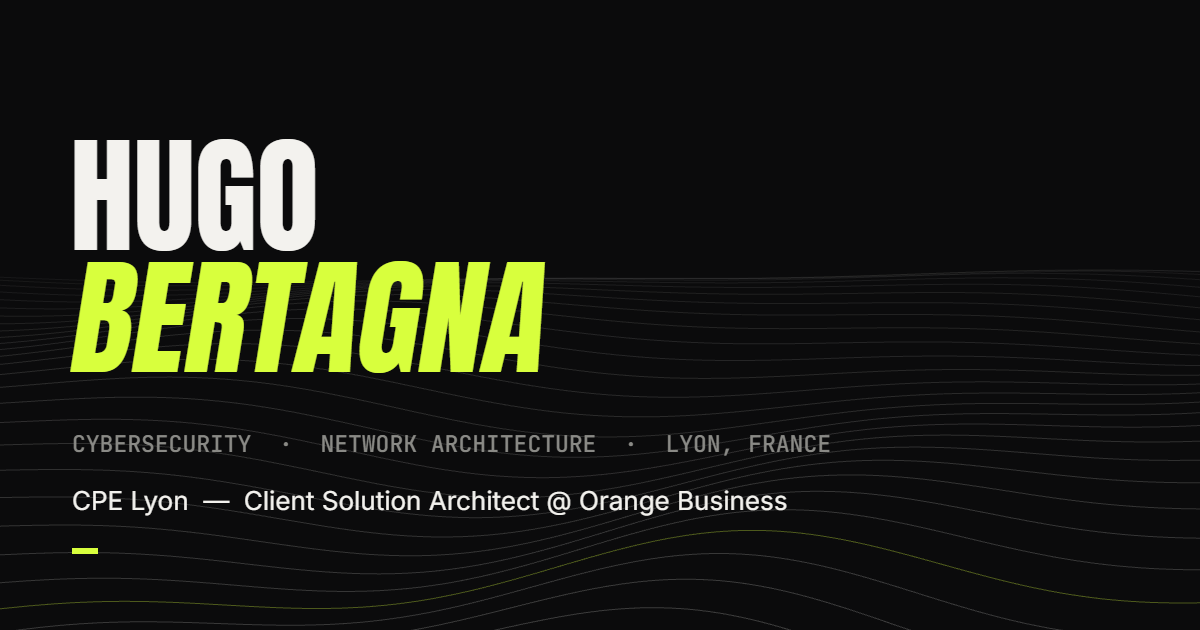
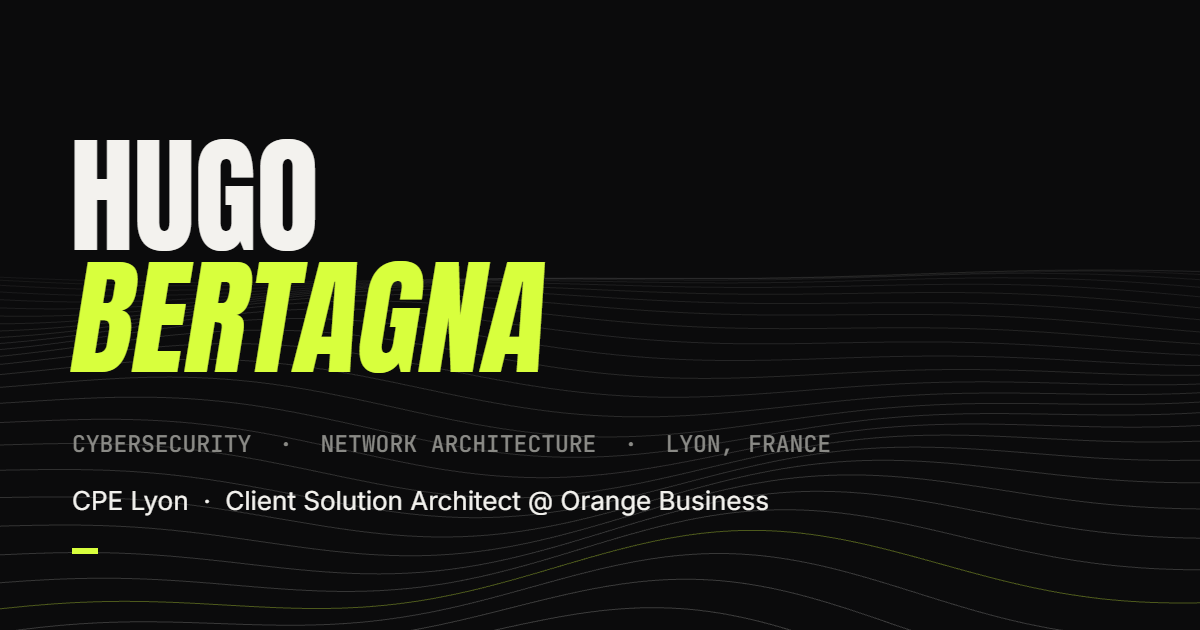
Drop em dashes and move Délest to the end of the projects
Replace every em dash in the page, the metadata, the JSON-LD and the
preview image. Date ranges use an arrow, row metadata and titles use a
middot, section markers use a slash, and the sentences that leaned on
a dash are rewritten with a colon, a comma or parentheses. En dashes in
year ranges become plain hyphens.

Délest moves from the first to the last project; the outlined index
numbers follow the new order.

Changed region(s): [[0.185, 0.754, 0.6783, 0.8143]]

diff --git a/index.html b/index.html
@@ -3,7 +3,7 @@
 <head>
 <meta charset="utf-8">
 <meta name="viewport" content="width=device-width, initial-scale=1">
-<title>Hugo Bertagna — Ingénieur Cybersécurité & Réseaux | Portfolio</title>
+<title>Hugo Bertagna · Ingénieur Cybersécurité & Réseaux | Portfolio</title>
 <meta name="description" content="Hugo Bertagna, élève ingénieur en cybersécurité et informatique à CPE Lyon et Client Solution Architect en alternance chez Orange Business. Architecture réseau BGP et SD-WAN, sécurité offensive, cloud et IA agentique. Portfolio, projets et CV.">
 <meta name="author" content="Hugo Bertagna">
 <meta name="robots" content="index,follow,max-image-preview:large">
@@ -13,7 +13,7 @@
 <meta property="og:site_name" content="Hugo Bertagna">
 <meta property="profile:first_name" content="Hugo">
 <meta property="profile:last_name" content="Bertagna">
-<meta property="og:title" content="Hugo Bertagna — Ingénieur Cybersécurité & Réseaux">
+<meta property="og:title" content="Hugo Bertagna · Ingénieur Cybersécurité & Réseaux">
 <meta property="og:description" content="Élève ingénieur cybersécurité à CPE Lyon, Client Solution Architect en alternance chez Orange Business. BGP, SD-WAN, sécurité offensive, IA agentique.">
 <meta property="og:url" content="https://www.hcorp.si/">
 <meta property="og:locale" content="fr_FR">
@@ -22,7 +22,7 @@
 <meta property="og:image:width" content="1200">
 <meta property="og:image:height" content="630">
 <meta name="twitter:card" content="summary_large_image">
-<meta name="twitter:title" content="Hugo Bertagna — Ingénieur Cybersécurité & Réseaux">
+<meta name="twitter:title" content="Hugo Bertagna · Ingénieur Cybersécurité & Réseaux">
 <meta name="twitter:description" content="Élève ingénieur cybersécurité à CPE Lyon, Client Solution Architect en alternance chez Orange Business.">
 <meta name="twitter:image" content="https://www.hcorp.si/assets/og-image.png">
 <link rel="preconnect" href="https://fonts.googleapis.com">
@@ -38,13 +38,13 @@
   "familyName": "Bertagna",
   "url": "https://www.hcorp.si/",
   "email": "mailto:h.bertagna118@gmail.com",
-  "jobTitle": "Client Solution Architect (apprentice) — Cybersecurity & Network Engineering student",
+  "jobTitle": "Client Solution Architect (apprentice), Cybersecurity & Network Engineering student",
   "description": "Cybersecurity and computer science engineering student at CPE Lyon, Client Solution Architect apprentice at Orange Business. Enterprise network architecture (BGP, SD-WAN), offensive security, cloud governance and agentic AI.",
   "knowsAbout": ["Cybersecurity","Network architecture","BGP","SD-WAN","Penetration testing","Cloud governance","Agentic AI","Python","Linux"],
   "knowsLanguage": ["fr","en","de"],
   "address": { "@type": "PostalAddress", "addressLocality": "Lyon", "addressCountry": "FR" },
   "alumniOf": [
-    { "@type": "CollegeOrUniversity", "name": "CPE Lyon — Graduate School of Engineering", "url": "https://www.cpe.fr/" },
+    { "@type": "CollegeOrUniversity", "name": "CPE Lyon, Graduate School of Engineering", "url": "https://www.cpe.fr/" },
     { "@type": "EducationalOrganization", "name": "ORT Lyon", "url": "https://www.ort-lyon.fr/" }
   ],
   "worksFor": { "@type": "Organization", "name": "Orange Business", "url": "https://www.orange-business.com/" },
@@ -58,7 +58,7 @@
 {
   "@context": "https://schema.org",
   "@type": "WebSite",
-  "name": "Hugo Bertagna — Portfolio",
+  "name": "Hugo Bertagna, Portfolio",
   "url": "https://www.hcorp.si/",
   "inLanguage": "fr-FR",
   "author": { "@type": "Person", "name": "Hugo Bertagna" }
@@ -352,7 +352,7 @@ footer{border-top:1px solid var(--line);padding:20px var(--pad)}
 
 <div id="intro" aria-hidden="true">
   <div class="count" id="count">00</div>
-  <div class="who micro"><span class="on">HUGO BERTAGNA</span><br>PORTFOLIO — 2026</div>
+  <div class="who micro"><span class="on">HUGO BERTAGNA</span><br>PORTFOLIO 2026</div>
 </div>
 
 <div class="tr">
@@ -388,9 +388,9 @@ footer{border-top:1px solid var(--line);padding:20px var(--pad)}
       <span class="n2">Bertagna</span>
     </h1>
     <div class="sticker" data-fr="Lyon<br>45.76° N" data-en="Lyon<br>45.76° N">Lyon<br>45.76° N</div>
-    <p class="claim" data-fr="Élève ingénieur en <b>cybersécurité &amp; informatique</b> à CPE Lyon. Client Solution Architect en alternance chez Orange Business — BGP, SD-WAN, sécurité offensive, IA agentique."
-                     data-en="Cybersecurity &amp; computer science <b>engineering student</b> at CPE Lyon. Client Solution Architect apprentice at Orange Business — BGP, SD-WAN, offensive security, agentic AI.">
-      Élève ingénieur en <b>cybersécurité &amp; informatique</b> à CPE Lyon. Client Solution Architect en alternance chez Orange Business — BGP, SD-WAN, sécurité offensive, IA agentique.
+    <p class="claim" data-fr="Élève ingénieur en <b>cybersécurité &amp; informatique</b> à CPE Lyon. Client Solution Architect en alternance chez Orange Business : BGP, SD-WAN, sécurité offensive, IA agentique."
+                     data-en="Cybersecurity &amp; computer science <b>engineering student</b> at CPE Lyon. Client Solution Architect apprentice at Orange Business: BGP, SD-WAN, offensive security, agentic AI.">
+      Élève ingénieur en <b>cybersécurité &amp; informatique</b> à CPE Lyon. Client Solution Architect en alternance chez Orange Business : BGP, SD-WAN, sécurité offensive, IA agentique.
     </p>
     <span class="edge micro" data-fr="DÉFILER ↓" data-en="SCROLL ↓">DÉFILER ↓</span>
   </section>
@@ -409,28 +409,14 @@ footer{border-top:1px solid var(--line);padding:20px var(--pad)}
 
   <!-- ══ WORK ══ -->
   <section class="pad" id="work">
-    <span class="mark"><b>01</b> — <span data-fr="TRAVAUX &amp; DISTINCTIONS" data-en="WORK &amp; AWARDS">TRAVAUX &amp; DISTINCTIONS</span></span>
+    <span class="mark"><b>01</b> / <span data-fr="TRAVAUX &amp; DISTINCTIONS" data-en="WORK &amp; AWARDS">TRAVAUX &amp; DISTINCTIONS</span></span>
     <div class="inner">
       <div class="rows">
 
         <article class="row rv">
           <span class="ghost" aria-hidden="true">01</span>
-          <h3><img class="logo" src="assets/delest-logo.svg" alt="" width="24" height="24" loading="lazy">Délest</h3>
-          <span class="meta" data-fr="APPLI WINDOWS — BÊTA 0.1.0" data-en="WINDOWS APP — BETA 0.1.0">APPLI WINDOWS — BÊTA 0.1.0</span>
-          <div class="body">
-            <p data-fr="Application de bureau que j’ai conçue et développée pour Windows 10/11 : elle scanne tout le disque et montre enfin où part l’espace. Les 233 Go analysés sont triés par raison — gros fichiers, dépendances de dev, caches et temporaires, installateurs, doublons — avec une carte visuelle des dossiers, un détecteur de doublons et un marquage « sans risque ». Rien n’est supprimé sans confirmation explicite, et tout tourne hors ligne, sans compte."
-               data-en="Desktop app I designed and built for Windows 10/11: it scans the whole drive and finally shows where the space went. Everything it finds is sorted by reason — large files, dev dependencies, caches and temp data, installers, duplicates — with a visual folder map, a duplicate finder and a “safe to delete” marker. Nothing is removed without explicit confirmation, and it all runs offline, no account.">
-              Application de bureau que j’ai conçue et développée pour Windows 10/11 : elle scanne tout le disque et montre enfin où part l’espace. Les 233 Go analysés sont triés par raison — gros fichiers, dépendances de dev, caches et temporaires, installateurs, doublons — avec une carte visuelle des dossiers, un détecteur de doublons et un marquage « sans risque ». Rien n’est supprimé sans confirmation explicite, et tout tourne hors ligne, sans compte.
-            </p>
-            <div class="tags"><span class="tag">Windows</span><span class="tag" data-fr="Appli bureau" data-en="Desktop app">Appli bureau</span><span class="tag" data-fr="Analyse disque" data-en="Disk analysis">Analyse disque</span><span class="tag" data-fr="Produit &amp; UX" data-en="Product &amp; UX">Produit &amp; UX</span></div>
-            <a class="out" href="https://delest-one.vercel.app/" target="_blank" rel="noopener">delest-one.vercel.app ↗</a>
-          </div>
-        </article>
-
-        <article class="row rv">
-          <span class="ghost" aria-hidden="true">02</span>
           <h3>IAThon IBM × EDF</h3>
-          <span class="meta" data-fr="1RE PLACE — MARS 2026" data-en="1ST PLACE — MARCH 2026">1RE PLACE — MARS 2026</span>
+          <span class="meta" data-fr="1RE PLACE · MARS 2026" data-en="1ST PLACE · MARCH 2026">1RE PLACE · MARS 2026</span>
           <div class="body">
             <p data-fr="Agents IA autonomes conçus et déployés pour résoudre des cas métier d’EDF. Outils Python sur mesure permettant aux agents d’interagir avec des systèmes externes, développés sur l’IDE BOB d’IBM en accès anticipé."
                data-en="Autonomous AI agents designed and deployed to solve EDF business challenges. Custom Python tooling letting agents interact with external systems, built on IBM’s BOB IDE in early access.">
@@ -441,9 +427,9 @@ footer{border-top:1px solid var(--line);padding:20px var(--pad)}
         </article>
 
         <article class="row rv">
-          <span class="ghost" aria-hidden="true">03</span>
+          <span class="ghost" aria-hidden="true">02</span>
           <h3>WocsHack 2026</h3>
-          <span class="meta" data-fr="3E PLACE — BUG BOUNTY" data-en="3RD PLACE — BUG BOUNTY">3E PLACE — BUG BOUNTY</span>
+          <span class="meta" data-fr="3E PLACE · BUG BOUNTY" data-en="3RD PLACE · BUG BOUNTY">3E PLACE · BUG BOUNTY</span>
           <div class="body">
             <p data-fr="Avec deux camarades de CPE Lyon : audit et pentest d’une plateforme d’apprentissage en ligne, dans un cadre éthique et pédagogique."
                data-en="With two CPE Lyon classmates: audit and pentest of an online learning platform, in an ethical and educational setting.">
@@ -454,9 +440,9 @@ footer{border-top:1px solid var(--line);padding:20px var(--pad)}
         </article>
 
         <article class="row rv">
-          <span class="ghost" aria-hidden="true">04</span>
+          <span class="ghost" aria-hidden="true">03</span>
           <h3>Roverba</h3>
-          <span class="meta" data-fr="CHEF DE PROJET — 5 DEVS" data-en="PROJECT LEAD — 5 DEVS">CHEF DE PROJET — 5 DEVS</span>
+          <span class="meta" data-fr="CHEF DE PROJET · 5 DEVS" data-en="PROJECT LEAD · 5 DEVS">CHEF DE PROJET · 5 DEVS</span>
           <div class="body">
             <p data-fr="Plateforme web qui automatise le déploiement de machines virtuelles. Back-end PHP configurant les accès SSH et RDP, authentification sécurisée et environnements conteneurisés : −95 % de risque inter-VM, −70 % de temps de déploiement manuel."
                data-en="Web platform automating virtual machine deployment. PHP back-end configuring SSH and RDP access, secure authentication and containerized environments: −95% inter-VM risk, −70% manual deployment time.">
@@ -468,18 +454,32 @@ footer{border-top:1px solid var(--line);padding:20px var(--pad)}
 
       </div>
     </div>
-  </section>
+          <article class="row rv">
+          <span class="ghost" aria-hidden="true">04</span>
+          <h3><img class="logo" src="assets/delest-logo.svg" alt="" width="24" height="24" loading="lazy">Délest</h3>
+          <span class="meta" data-fr="APPLI WINDOWS · BÊTA 0.1.0" data-en="WINDOWS APP · BETA 0.1.0">APPLI WINDOWS · BÊTA 0.1.0</span>
+          <div class="body">
+            <p data-fr="Application de bureau que j’ai conçue et développée pour Windows 10/11 : elle scanne tout le disque et montre enfin où part l’espace. Les 233 Go analysés sont triés par raison (gros fichiers, dépendances de dev, caches et temporaires, installateurs, doublons), avec une carte visuelle des dossiers, un détecteur de doublons et un marquage « sans risque ». Rien n’est supprimé sans confirmation explicite, et tout tourne hors ligne, sans compte."
+               data-en="Desktop app I designed and built for Windows 10/11: it scans the whole drive and finally shows where the space went. Everything it finds is sorted by reason (large files, dev dependencies, caches and temp data, installers, duplicates), with a visual folder map, a duplicate finder and a “safe to delete” marker. Nothing is removed without explicit confirmation, and it all runs offline, no account.">
+              Application de bureau que j’ai conçue et développée pour Windows 10/11 : elle scanne tout le disque et montre enfin où part l’espace. Les 233 Go analysés sont triés par raison (gros fichiers, dépendances de dev, caches et temporaires, installateurs, doublons), avec une carte visuelle des dossiers, un détecteur de doublons et un marquage « sans risque ». Rien n’est supprimé sans confirmation explicite, et tout tourne hors ligne, sans compte.
+            </p>
+            <div class="tags"><span class="tag">Windows</span><span class="tag" data-fr="Appli bureau" data-en="Desktop app">Appli bureau</span><span class="tag" data-fr="Analyse disque" data-en="Disk analysis">Analyse disque</span><span class="tag" data-fr="Produit &amp; UX" data-en="Product &amp; UX">Produit &amp; UX</span></div>
+            <a class="out" href="https://delest-one.vercel.app/" target="_blank" rel="noopener">delest-one.vercel.app ↗</a>
+          </div>
+        </article>
+
+</section>
 
   <!-- ══ PARCOURS ══ -->
   <section class="pad" id="experience">
-    <span class="mark"><b>02</b> — <span data-fr="PARCOURS" data-en="TRACK RECORD">PARCOURS</span></span>
+    <span class="mark"><b>02</b> / <span data-fr="PARCOURS" data-en="TRACK RECORD">PARCOURS</span></span>
     <div class="inner">
       <div class="rows">
 
         <article class="row rv">
           <span class="ghost" aria-hidden="true">26</span>
           <h3>Orange Business</h3>
-          <span class="meta" data-fr="SEPT 2026 — AOÛT 2028" data-en="SEPT 2026 — AUG 2028">SEPT 2026 — AOÛT 2028</span>
+          <span class="meta" data-fr="SEPT 2026 → AOÛT 2028" data-en="SEPT 2026 → AUG 2028">SEPT 2026 → AOÛT 2028</span>
           <div class="body">
             <p data-fr="<strong>Client Solution Architect, alternance.</strong> Conception de solutions de routage BGP pour les réseaux de grands comptes, architecture et déploiement SD-WAN de l’analyse du besoin à la proposition technique, gestion du lab de démonstration client."
                data-en="<strong>Client Solution Architect, work-study.</strong> BGP routing solutions for large enterprise networks, SD-WAN architecture and deployment from needs analysis to technical proposal, ownership of the client demo lab.">
@@ -491,11 +491,11 @@ footer{border-top:1px solid var(--line);padding:20px var(--pad)}
         <article class="row rv">
           <span class="ghost" aria-hidden="true">26</span>
           <h3>Universidad Nacional del Sur</h3>
-          <span class="meta" data-fr="JUIN — AOÛT 2026 · ARGENTINE" data-en="JUNE — AUG 2026 · ARGENTINA">JUIN — AOÛT 2026 · ARGENTINE</span>
+          <span class="meta" data-fr="JUIN → AOÛT 2026 · ARGENTINE" data-en="JUNE → AUG 2026 · ARGENTINA">JUIN → AOÛT 2026 · ARGENTINE</span>
           <div class="body">
-            <p data-fr="<strong>Stage de recherche — architecture cloud &amp; cybersécurité.</strong> Framework de politique de sécurité pour le cloud hybride en contexte gouvernemental, référentiels de conformité pour l’isolation des infrastructures critiques, analyse des vecteurs d’attaque et architectures de confiance pour l’intégration de LLM dans l’administration publique."
-               data-en="<strong>Research internship — cloud architecture &amp; cybersecurity.</strong> Security policy framework for hybrid cloud in government settings, compliance frameworks isolating critical state infrastructure, attack-vector analysis and trust architectures for integrating LLMs into public administration.">
-              <strong>Stage de recherche — architecture cloud &amp; cybersécurité.</strong> Framework de politique de sécurité pour le cloud hybride en contexte gouvernemental, référentiels de conformité pour l’isolation des infrastructures critiques, analyse des vecteurs d’attaque et architectures de confiance pour l’intégration de LLM dans l’administration publique.
+            <p data-fr="<strong>Stage de recherche en architecture cloud &amp; cybersécurité.</strong> Framework de politique de sécurité pour le cloud hybride en contexte gouvernemental, référentiels de conformité pour l’isolation des infrastructures critiques, analyse des vecteurs d’attaque et architectures de confiance pour l’intégration de LLM dans l’administration publique."
+               data-en="<strong>Research internship in cloud architecture &amp; cybersecurity.</strong> Security policy framework for hybrid cloud in government settings, compliance frameworks isolating critical state infrastructure, attack-vector analysis and trust architectures for integrating LLMs into public administration.">
+              <strong>Stage de recherche en architecture cloud &amp; cybersécurité.</strong> Framework de politique de sécurité pour le cloud hybride en contexte gouvernemental, référentiels de conformité pour l’isolation des infrastructures critiques, analyse des vecteurs d’attaque et architectures de confiance pour l’intégration de LLM dans l’administration publique.
             </p>
           </div>
         </article>
@@ -503,7 +503,7 @@ footer{border-top:1px solid var(--line);padding:20px var(--pad)}
         <article class="row rv">
           <span class="ghost" aria-hidden="true">24</span>
           <h3>Hospices Civils de Lyon</h3>
-          <span class="meta" data-fr="JUIN — AOÛT 2024 · LYON" data-en="JUNE — AUG 2024 · LYON">JUIN — AOÛT 2024 · LYON</span>
+          <span class="meta" data-fr="JUIN → AOÛT 2024 · LYON" data-en="JUNE → AUG 2024 · LYON">JUIN → AOÛT 2024 · LYON</span>
           <div class="body">
             <p data-fr="<strong>Stage support N2/N3.</strong> Conception et test de fonctionnalités sur une application web React, correction de bugs front-end, optimisation du responsive, versioning sur dépôt distant en environnement Agile/Scrum."
                data-en="<strong>N2/N3 support internship.</strong> Designed and tested features on a React web application, fixed front-end bugs, optimized responsiveness, remote-repo versioning in an Agile/Scrum environment.">
@@ -518,16 +518,16 @@ footer{border-top:1px solid var(--line);padding:20px var(--pad)}
 
   <!-- ══ PROFIL ══ -->
   <section class="pad" id="about">
-    <span class="mark"><b>03</b> — <span data-fr="PROFIL" data-en="PROFILE">PROFIL</span></span>
+    <span class="mark"><b>03</b> / <span data-fr="PROFIL" data-en="PROFILE">PROFIL</span></span>
     <div class="inner collage rv">
       <h2 class="statement" data-fr="Je construis des réseaux, <em>je les casse</em>, puis je les blinde."
                             data-en="I build networks, <em>break them</em>, then harden them.">
         Je construis des réseaux, <em>je les casse</em>, puis je les blinde.
       </h2>
       <div class="prose">
-        <p data-fr="Cycle ingénieur cybersécurité &amp; informatique à <strong>CPE Lyon</strong> (titre CTI), en alternance chez <strong>Orange Business</strong> comme Client Solution Architect. Mon terrain : le réseau d’entreprise — BGP, SD-WAN, architecture — et tout ce qui le protège."
-           data-en="Engineering degree in cybersecurity &amp; computer science at <strong>CPE Lyon</strong> (CTI-accredited), apprenticing at <strong>Orange Business</strong> as a Client Solution Architect. My ground: enterprise networking — BGP, SD-WAN, architecture — and everything that protects it.">
-          Cycle ingénieur cybersécurité &amp; informatique à <strong>CPE Lyon</strong> (titre CTI), en alternance chez <strong>Orange Business</strong> comme Client Solution Architect. Mon terrain : le réseau d’entreprise — BGP, SD-WAN, architecture — et tout ce qui le protège.
+        <p data-fr="Cycle ingénieur cybersécurité &amp; informatique à <strong>CPE Lyon</strong> (titre CTI), en alternance chez <strong>Orange Business</strong> comme Client Solution Architect. Mon terrain : le réseau d’entreprise (BGP, SD-WAN, architecture) et tout ce qui le protège."
+           data-en="Engineering degree in cybersecurity &amp; computer science at <strong>CPE Lyon</strong> (CTI-accredited), apprenticing at <strong>Orange Business</strong> as a Client Solution Architect. My ground: enterprise networking (BGP, SD-WAN, architecture) and everything that protects it.">
+          Cycle ingénieur cybersécurité &amp; informatique à <strong>CPE Lyon</strong> (titre CTI), en alternance chez <strong>Orange Business</strong> comme Client Solution Architect. Mon terrain : le réseau d’entreprise (BGP, SD-WAN, architecture) et tout ce qui le protège.
         </p>
         <p data-fr="Avant ça : un <strong>Advanced Technician’s Certificate</strong> en réseaux, cybersécurité et électronique à l’ORT Lyon, un stage de recherche en Argentine sur la gouvernance cloud et la sécurité des LLM, et du support N2/N3 aux Hospices Civils de Lyon."
            data-en="Before that: an <strong>Advanced Technician’s Certificate</strong> in networks, cybersecurity and electronics at ORT Lyon, a research internship in Argentina on cloud governance and LLM security, and N2/N3 support at Hospices Civils de Lyon.">
@@ -542,11 +542,11 @@ footer{border-top:1px solid var(--line);padding:20px var(--pad)}
       <div class="facts">
         <div class="fact">
           <span class="k">EDU</span><b>CPE Lyon</b>
-          <span class="v" data-fr="Diplôme d’ingénieur — Cybersécurité &amp; Informatique (CTI) · 2025–2028" data-en="Engineering Degree — Cybersecurity &amp; Computer Science (CTI) · 2025–2028">Diplôme d’ingénieur — Cybersécurité &amp; Informatique (CTI) · 2025–2028</span>
+          <span class="v" data-fr="Diplôme d’ingénieur en Cybersécurité &amp; Informatique (CTI) · 2025-2028" data-en="Engineering Degree in Cybersecurity &amp; Computer Science (CTI) · 2025-2028">Diplôme d’ingénieur en Cybersécurité &amp; Informatique (CTI) · 2025-2028</span>
         </div>
         <div class="fact">
           <span class="k">EDU</span><b>ORT Lyon</b>
-          <span class="v" data-fr="Advanced Technician’s Certificate — Réseaux, Cybersécurité, Électronique · 2023–2025" data-en="Advanced Technician’s Certificate — Networks, Cybersecurity, Electronics · 2023–2025">Advanced Technician’s Certificate — Réseaux, Cybersécurité, Électronique · 2023–2025</span>
+          <span class="v" data-fr="Advanced Technician’s Certificate en Réseaux, Cybersécurité, Électronique · 2023-2025" data-en="Advanced Technician’s Certificate in Networks, Cybersecurity, Electronics · 2023-2025">Advanced Technician’s Certificate en Réseaux, Cybersécurité, Électronique · 2023-2025</span>
         </div>
         <div class="fact">
           <span class="k">CERT</span><b>Red Hat · Cisco</b>
@@ -562,7 +562,7 @@ footer{border-top:1px solid var(--line);padding:20px var(--pad)}
 
   <!-- ══ STACK ══ -->
   <section class="pad" id="skills">
-    <span class="mark"><b>04</b> — <span data-fr="STACK" data-en="STACK">STACK</span></span>
+    <span class="mark"><b>04</b> / <span data-fr="STACK" data-en="STACK">STACK</span></span>
     <div class="inner scatter rv">
       <div class="pile">
         <h4 data-fr="Réseaux" data-en="Networks">Réseaux</h4>
@@ -585,7 +585,7 @@ footer{border-top:1px solid var(--line);padding:20px var(--pad)}
 
   <!-- ══ CONTACT ══ -->
   <section class="pad contact" id="contact">
-    <span class="mark"><b>05</b> — CONTACT</span>
+    <span class="mark"><b>05</b> / CONTACT</span>
     <div class="inner rv">
       <p class="shout" data-fr="Parlons-en<span class='hollow'>maintenant</span>" data-en="Let’s talk<span class='hollow'>now</span>">Parlons-en<span class="hollow">maintenant</span></p>
       <div class="lines">
